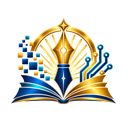
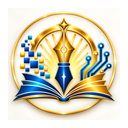
Add files via upload

diff --git a/images/README.md b/images/README.md
@@ -1,3 +1,3 @@
-# CodeBhavya improved images
-
-These files keep the original filenames so you can directly replace the old images in your GitHub project.
+CodeBhavya improved images pack with the same original filenames.
+Updated slogan: From Learning to Limitless Possibilities.
+Replace the files in your existing images folder in GitHub with these files.
